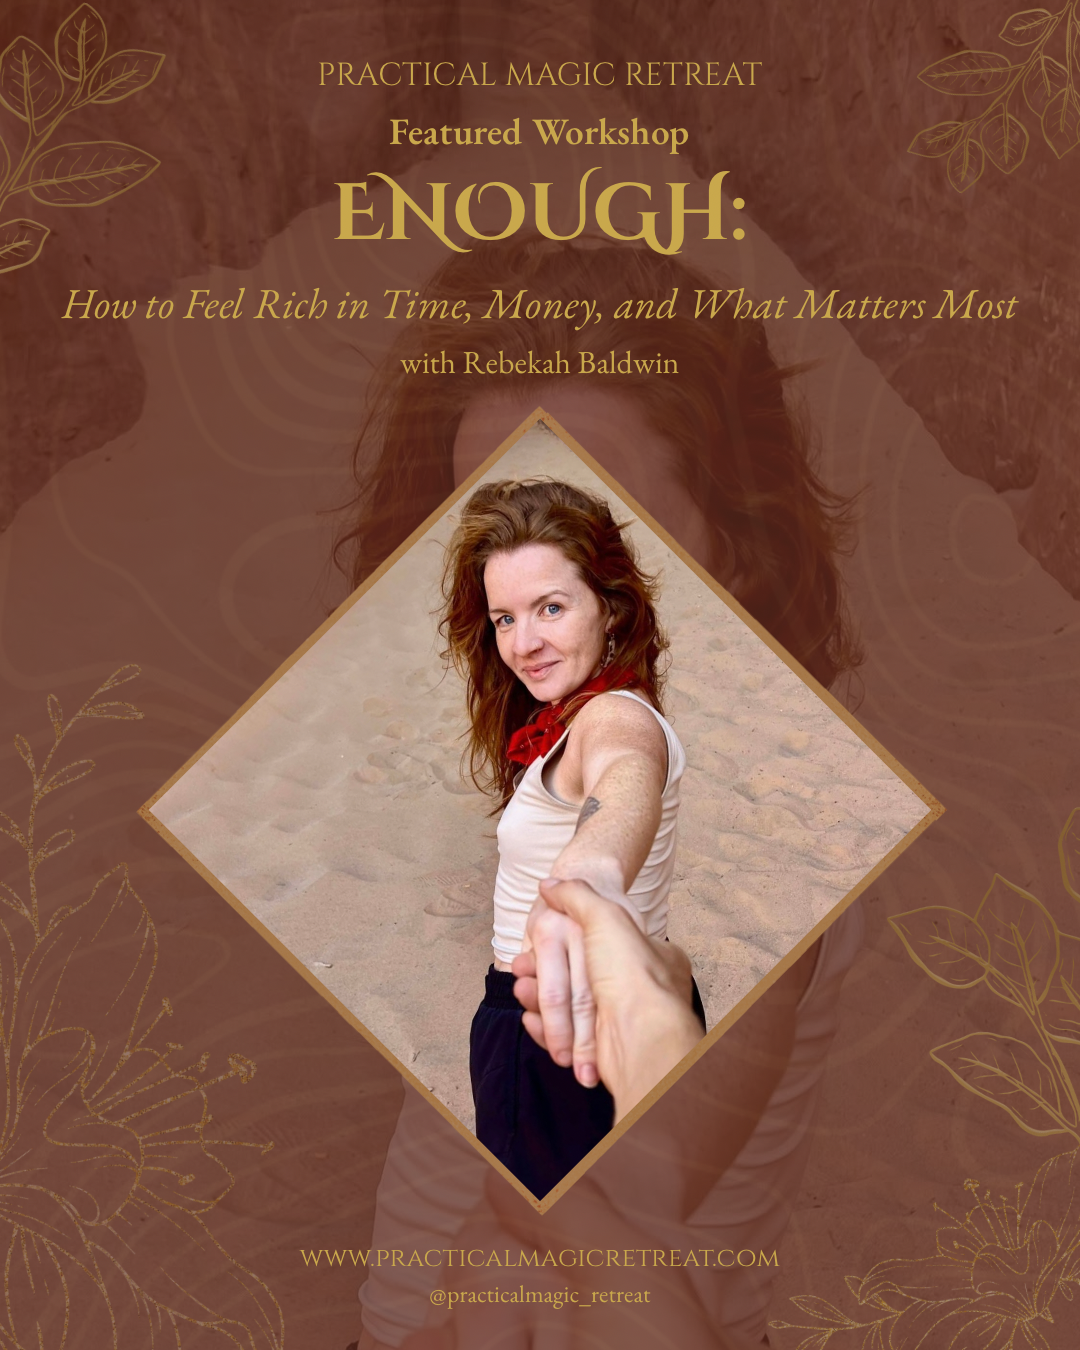
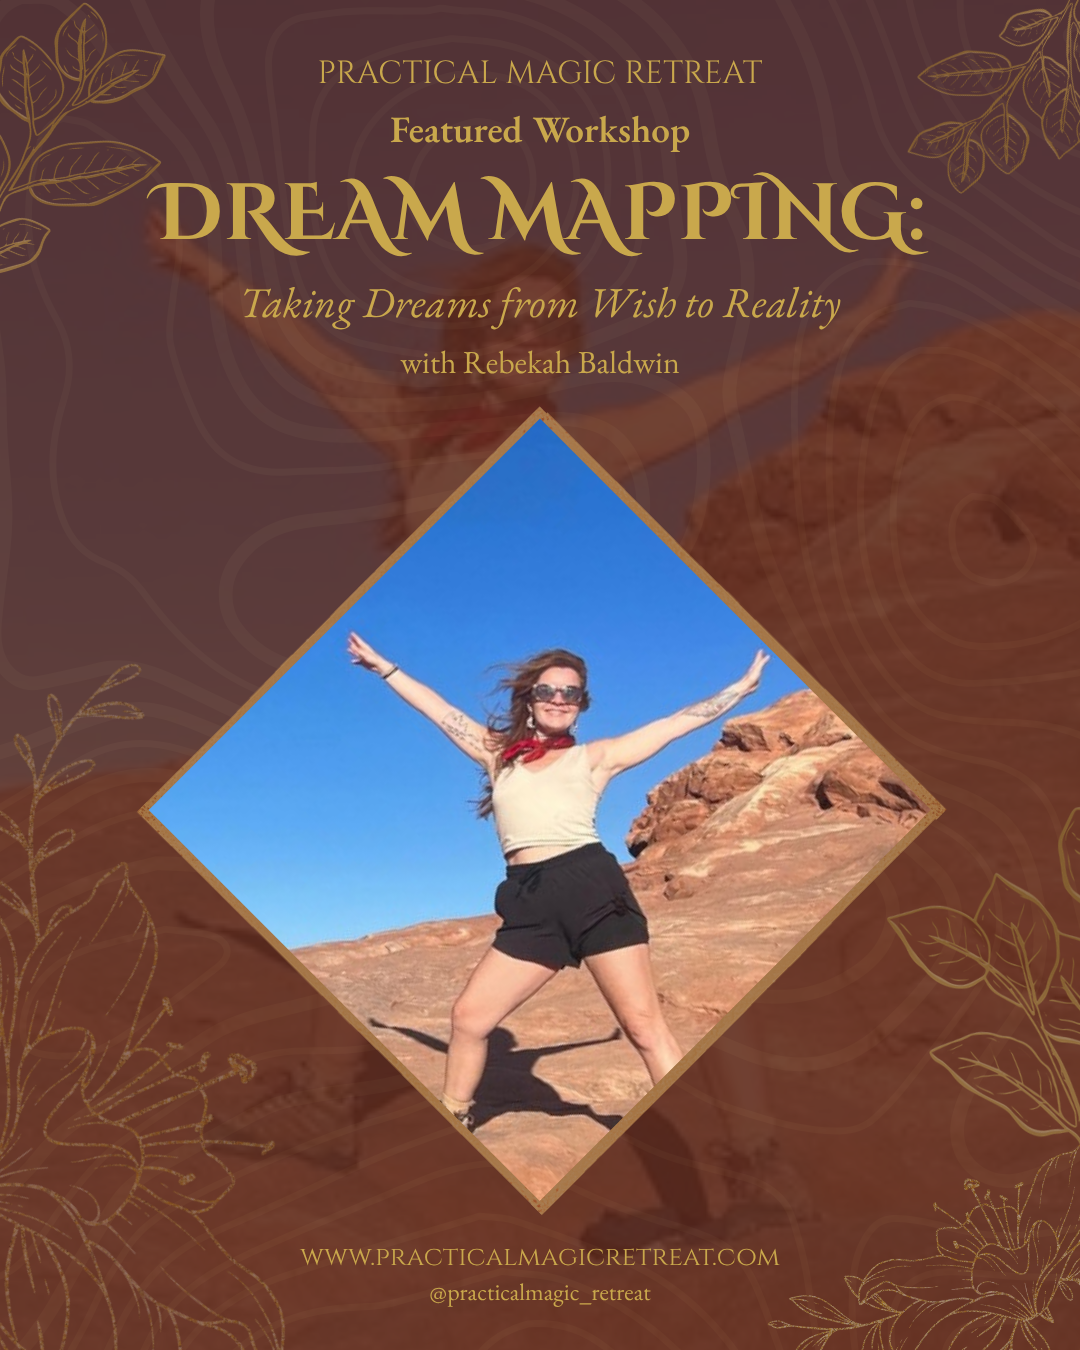
Add files via upload

diff --git a/index.html b/index.html
@@ -840,9 +840,7 @@
     .workshop-image-wrap img {
       display: block;
       width: 100%;
-      aspect-ratio: 1 / 1;
-      object-fit: cover;
-      object-position: center top;
+      height: auto;
     }
     .workshop-content { display: flex; flex-direction: column; gap: 0.8rem; }
     .workshop-host-label {
@@ -1948,7 +1946,7 @@
       <div class="reveal" style="text-align:center;">
         <span class="section-label">Featured Workshops</span>
         <h2 class="section-title">Three ways in.</h2>
-        <p class="workshops-intro">Each of your guides is bringing something close to her heart. Here's what you'll experience together.</p>
+        <p class="workshops-intro">Each workshop leader is bringing something close to her heart. Here's what you'll experience together.</p>
       </div>
       <div class="workshop-list">
         <div class="workshop-card reveal">
@@ -1970,18 +1968,16 @@
 
         <div class="workshop-card reveal">
           <div class="workshop-image-wrap">
-            <img src="Workshop_Rebekah.png" alt="Enough workshop graphic" loading="lazy" />
+            <img src="Workshop_Rebekah.png" alt="Dream Mapping workshop graphic" loading="lazy" />
           </div>
           <div class="workshop-content">
             <p class="workshop-host-label">with Rebekah Baldwin</p>
-            <h3 class="workshop-title">Enough: How to Feel Rich in Time, Money, and What Matters Most</h3>
-            <p class="workshop-teaser">What if abundance isn’t about getting more? We’ll examine the stories we’ve inherited around scarcity, explore the nervous system’s role, and try practical tools for living in deeper alignment with what matters most.</p>
+            <h3 class="workshop-title">Dream Mapping: Taking Dreams from Wish to Reality</h3>
+            <p class="workshop-teaser">We all carry dreams within us - things we’d love to do, but never seem to get around to. It might be something “small” like learning how to tango or starting a book club- or maybe you’re feeling the call for a bigger shift in your life. Whatever it is, I want you to know that it matters.</p>
             <button class="workshop-toggle" aria-expanded="false" aria-controls="ws-2"><span>Read more</span><svg class="workshop-icon" viewBox="0 0 24 24" fill="none" stroke="currentColor" stroke-width="1.5" aria-hidden="true"><path d="M6 9l6 6 6-6"/></svg></button>
             <div class="workshop-full" id="ws-2">
-              <p>Most of us think scarcity is a problem we can out earn. We’ve been taught to measure wealth by accumulation: more money, more achievement, more experiences, more productivity. More, more, more. Yet many of us live with a persistent feeling that there is never enough — never enough money, never enough time, never enough energy, never enough of ourselves to go around.</p>
-              <p>But what if abundance isn’t about getting more? What if it’s about becoming more capable of recognizing, receiving, and enjoying what is already here?</p>
-              <p>In this workshop, we’ll examine the cultural stories we have inherited around success and enoughness, learn about the nervous system’s role in experiencing scarcity or abundance, and try out some practical tools that ensure you are spending your valuable resources in ways that support what matters most.</p>
-              <p>This isn’t about bypassing or denying our current lived reality. It’s about creating more spaciousness in our day-to-day, cultivating the capacity to recognize the abundance that’s already there, and designing a life that is in deeper alignment with our values.</p>
+              <p>Our dreams can get buried beneath the demands of everyday life. We often prioritize other people’s needs and what is “practical,” while ignoring the quiet whispers of our heart. It’s possible you’re clear on what you want, but you’re just not sure where to begin.</p>
+              <p>Through guided reflection, playful exercises, and creative visioning, I will help you identify a dream you’d like to bring into reality AND help you create a strategy for doing so. You don’t need to have any specific dream in mind. Just bring your curiosity, an open mind, and a willingness to imagine what’s possible.</p>
             </div>
           </div>
         </div>
